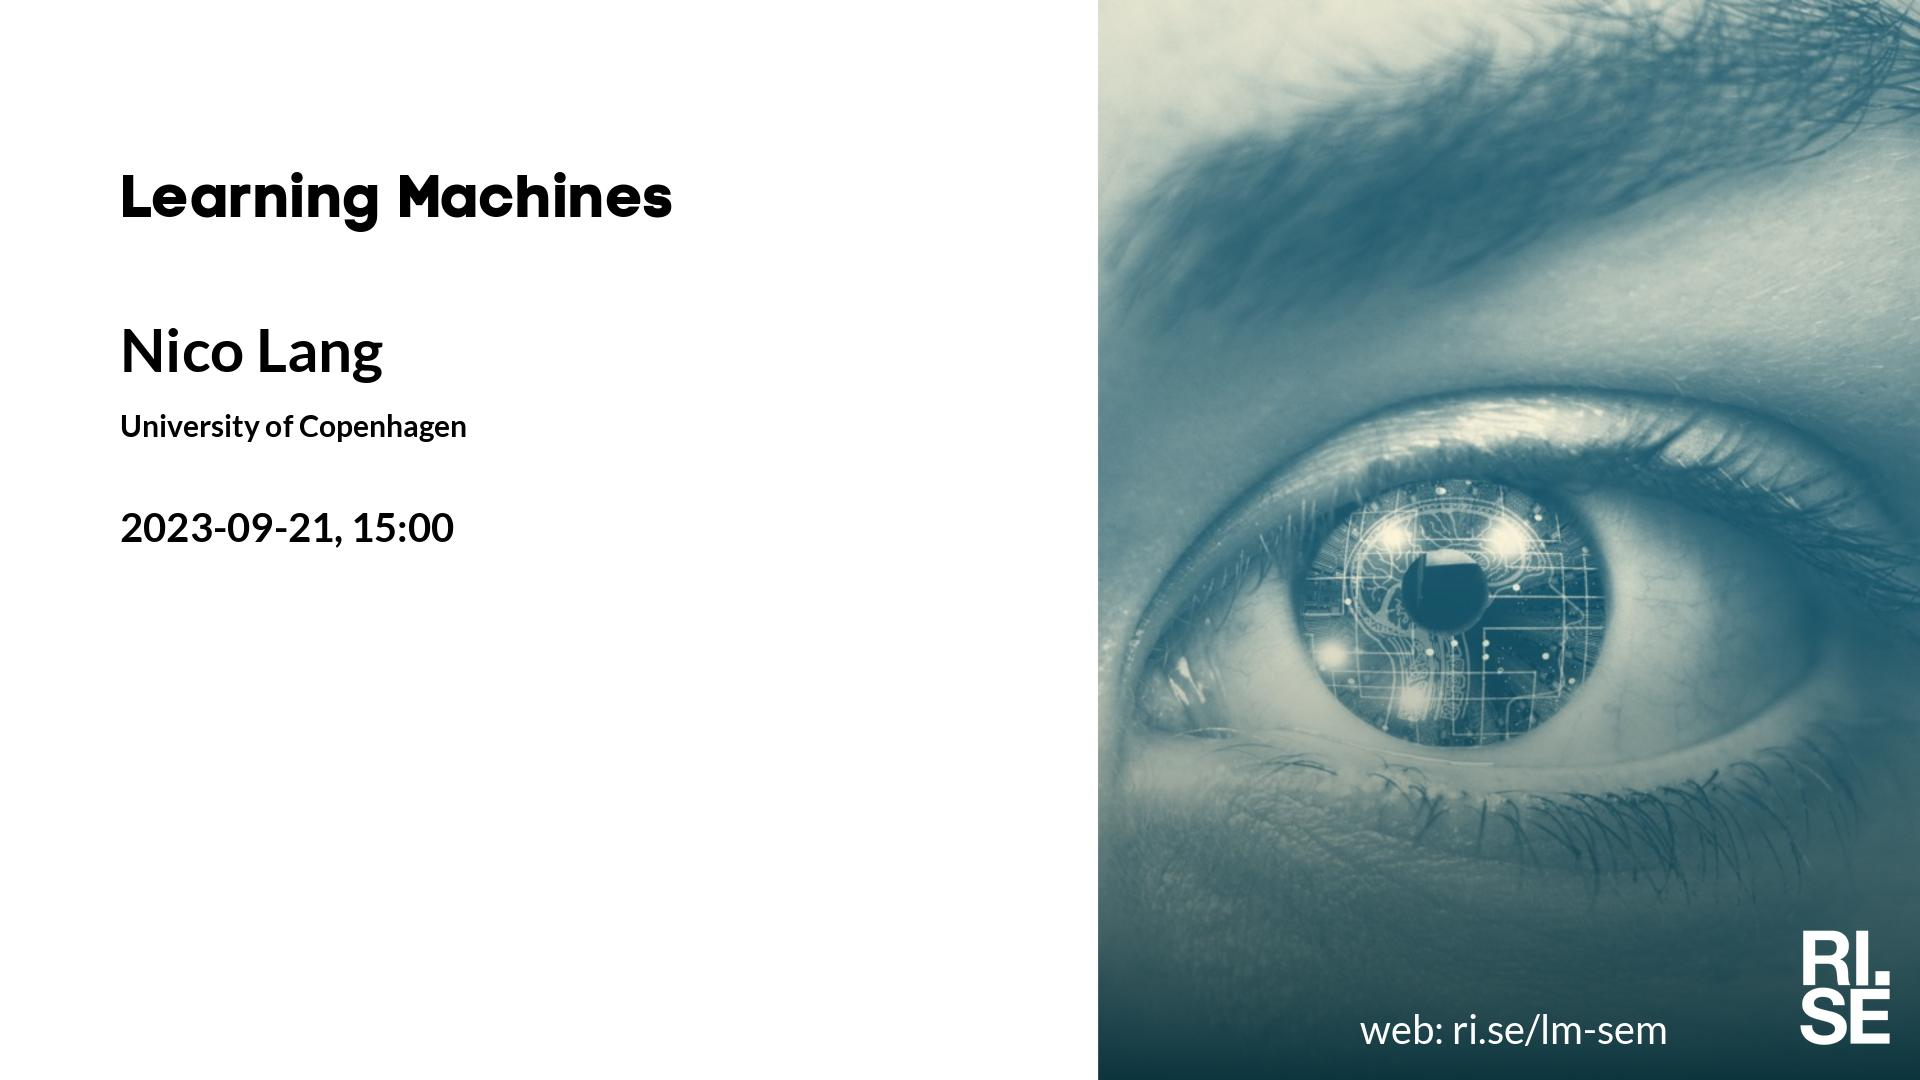
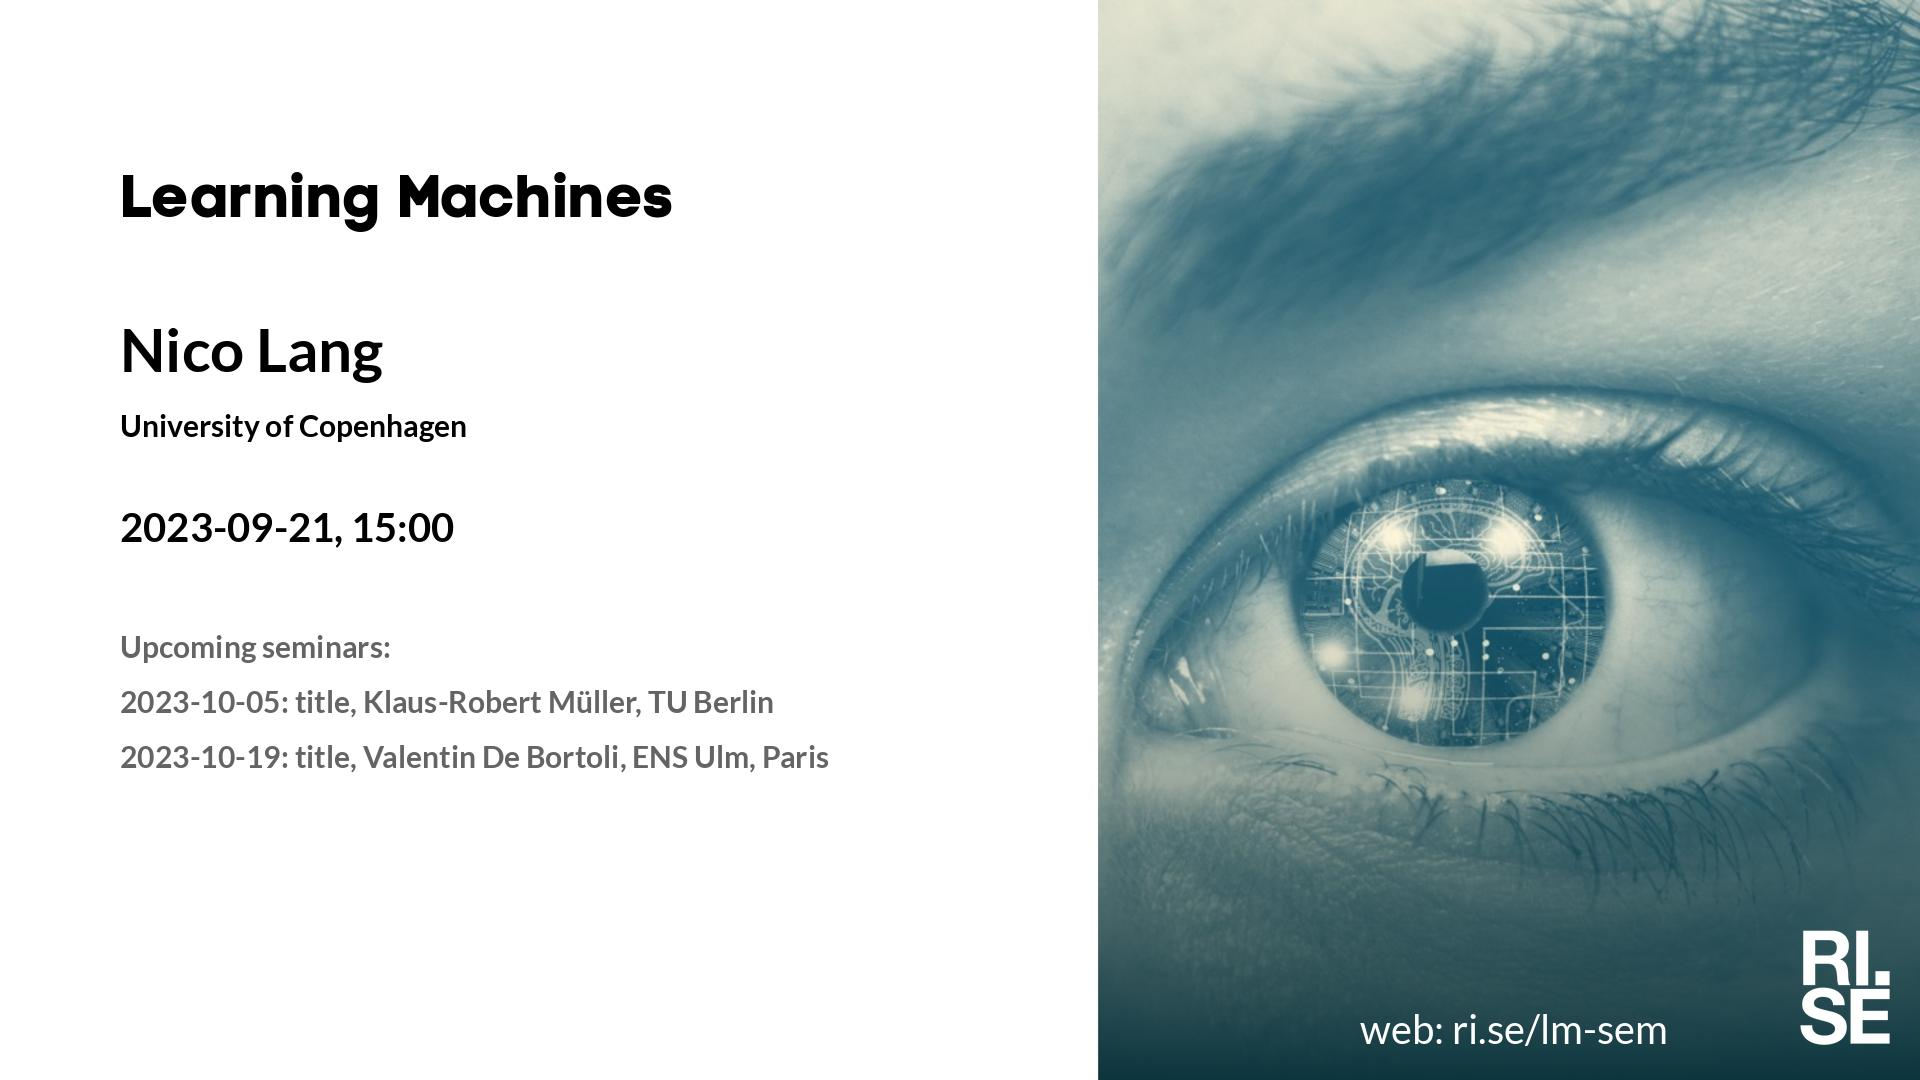
Updated plan on web site.

Changed region(s): [[0.0625, 0.6417, 0.4375, 0.7333], [0.0625, 0.5806, 0.2188, 0.6111]]

diff --git a/lm/index.md b/lm/index.md
@@ -16,7 +16,7 @@ table {border-collapse: collapse;}
 | <span style="color:grey"> 2023-09-14 </span> | <span style="color:grey"> Nataša S. ? </span> | <span style="color:grey">  </span> | <span style="color:grey">  </span> | <span style="color:grey">  </span> | <span style="color:grey">  </span> | <span style="color:grey"> ?TAB~~P~~ </span> |
 |  2023-09-21  |  [Nico Lang, University of Copenhagen](2023-09-21.md)  |    |  [social media ](social-media-nico-lang.jpg)  |  [meeting backdrop ](meeting-backdrop-nico-lang.jpg)  |  [youtube thumbnail ](youtube-thumbnail-nico-lang.jpg)  |  STAB~~P~~  |
 | <span style="color:grey"> 2023-09-28 </span> | <span style="color:grey"> Jaakko P. ? </span> | <span style="color:grey">  </span> | <span style="color:grey">  </span> | <span style="color:grey">  </span> | <span style="color:grey">  </span> | <span style="color:grey"> ?TAB~~P~~ </span> |
-| <span style="color:grey"> 2023-10-05 </span> | <span style="color:grey"> Klaus-Robert M. ? </span> | <span style="color:grey">  </span> | <span style="color:grey">  </span> | <span style="color:grey">  </span> | <span style="color:grey">  </span> | <span style="color:grey"> ?TAB~~P~~ </span> |
+|  2023-10-05  |  [Klaus-Robert Müller, TU Berlin](2023-10-05.md)  |    |  [social media ](social-media-klaus-robert-muller.jpg)  |  [meeting backdrop ](meeting-backdrop-klaus-robert-muller.jpg)  |  [youtube thumbnail ](youtube-thumbnail-klaus-robert-muller.jpg)  |  STAB~~P~~  |
 | <span style="color:grey"> 2023-10-12 </span> | <span style="color:grey"> Giulio B. ? </span> | <span style="color:grey">  </span> | <span style="color:grey">  </span> | <span style="color:grey">  </span> | <span style="color:grey">  </span> | <span style="color:grey"> ?TAB~~P~~ </span> |
 |  2023-10-19  |  [Valentin De Bortoli, ENS Ulm, Paris](2023-10-19.md)  |    |  [social media ](social-media-valentin-de-bortoli.jpg)  |  [meeting backdrop ](meeting-backdrop-valentin-de-bortoli.jpg)  |  [youtube thumbnail ](youtube-thumbnail-valentin-de-bortoli.jpg)  |  STAB~~P~~  |
 | <span style="color:purple"> 2023-10-26 </span> | <span style="color:purple"> *Up for grabs!!!* </span> | <span style="color:purple">  </span> | <span style="color:purple">  </span> | <span style="color:purple">  </span> | <span style="color:purple">  </span> | <span style="color:purple"> ~~S~~TAB~~P~~ </span> |

diff --git a/lm/2023-10-05.md b/lm/2023-10-05.md
@@ -6,7 +6,7 @@ Welcome to this week's Learning Machines seminar.
 
 **Title:** N/A
 
-**Speaker:** Nico Lang, University of Copenhagen
+**Speaker:** Klaus-Robert Müller, TU Berlin
 
 **Abstract:** N/A
 
@@ -18,7 +18,6 @@ Welcome to this week's Learning Machines seminar.
 
 **Upcoming seminars:**
 
-* 2023-10-05: *title*, Klaus-Robert Müller, TU Berlin
 * 2023-10-19: *title*, Valentin De Bortoli, ENS Ulm, Paris
 
 More information and coming seminars: [https://ri.se/lm-sem](https://ri.se/lm-sem)
